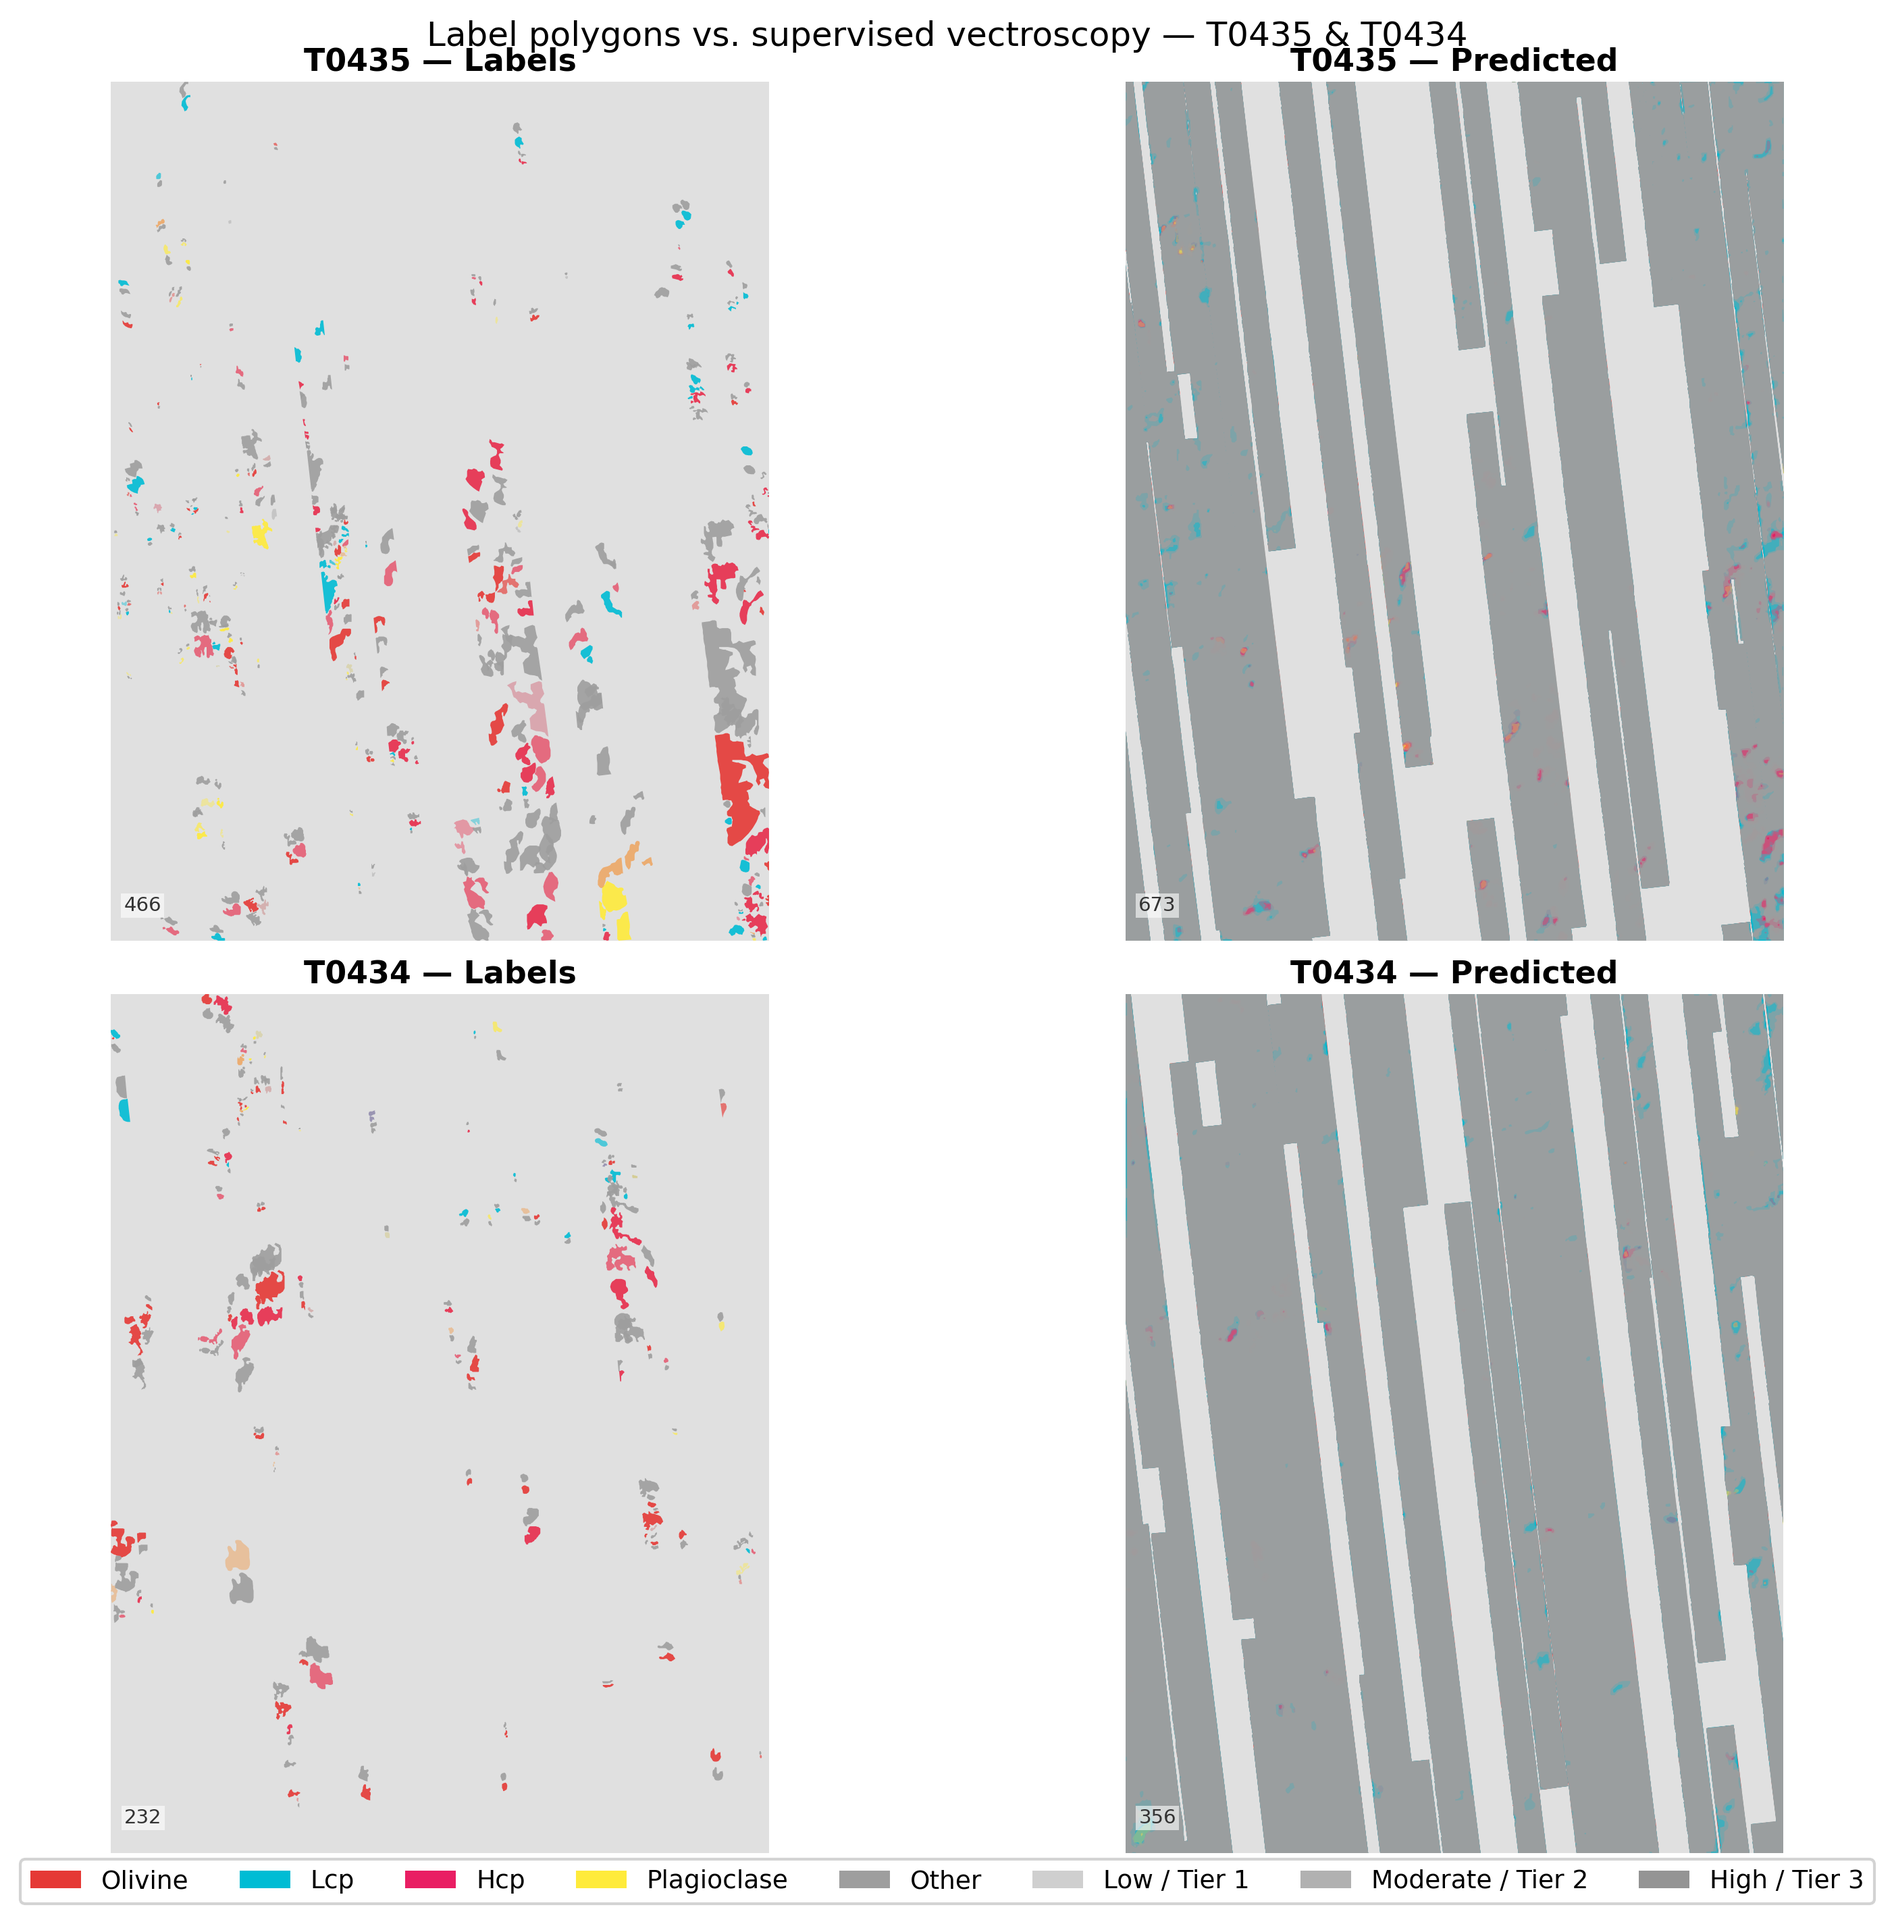
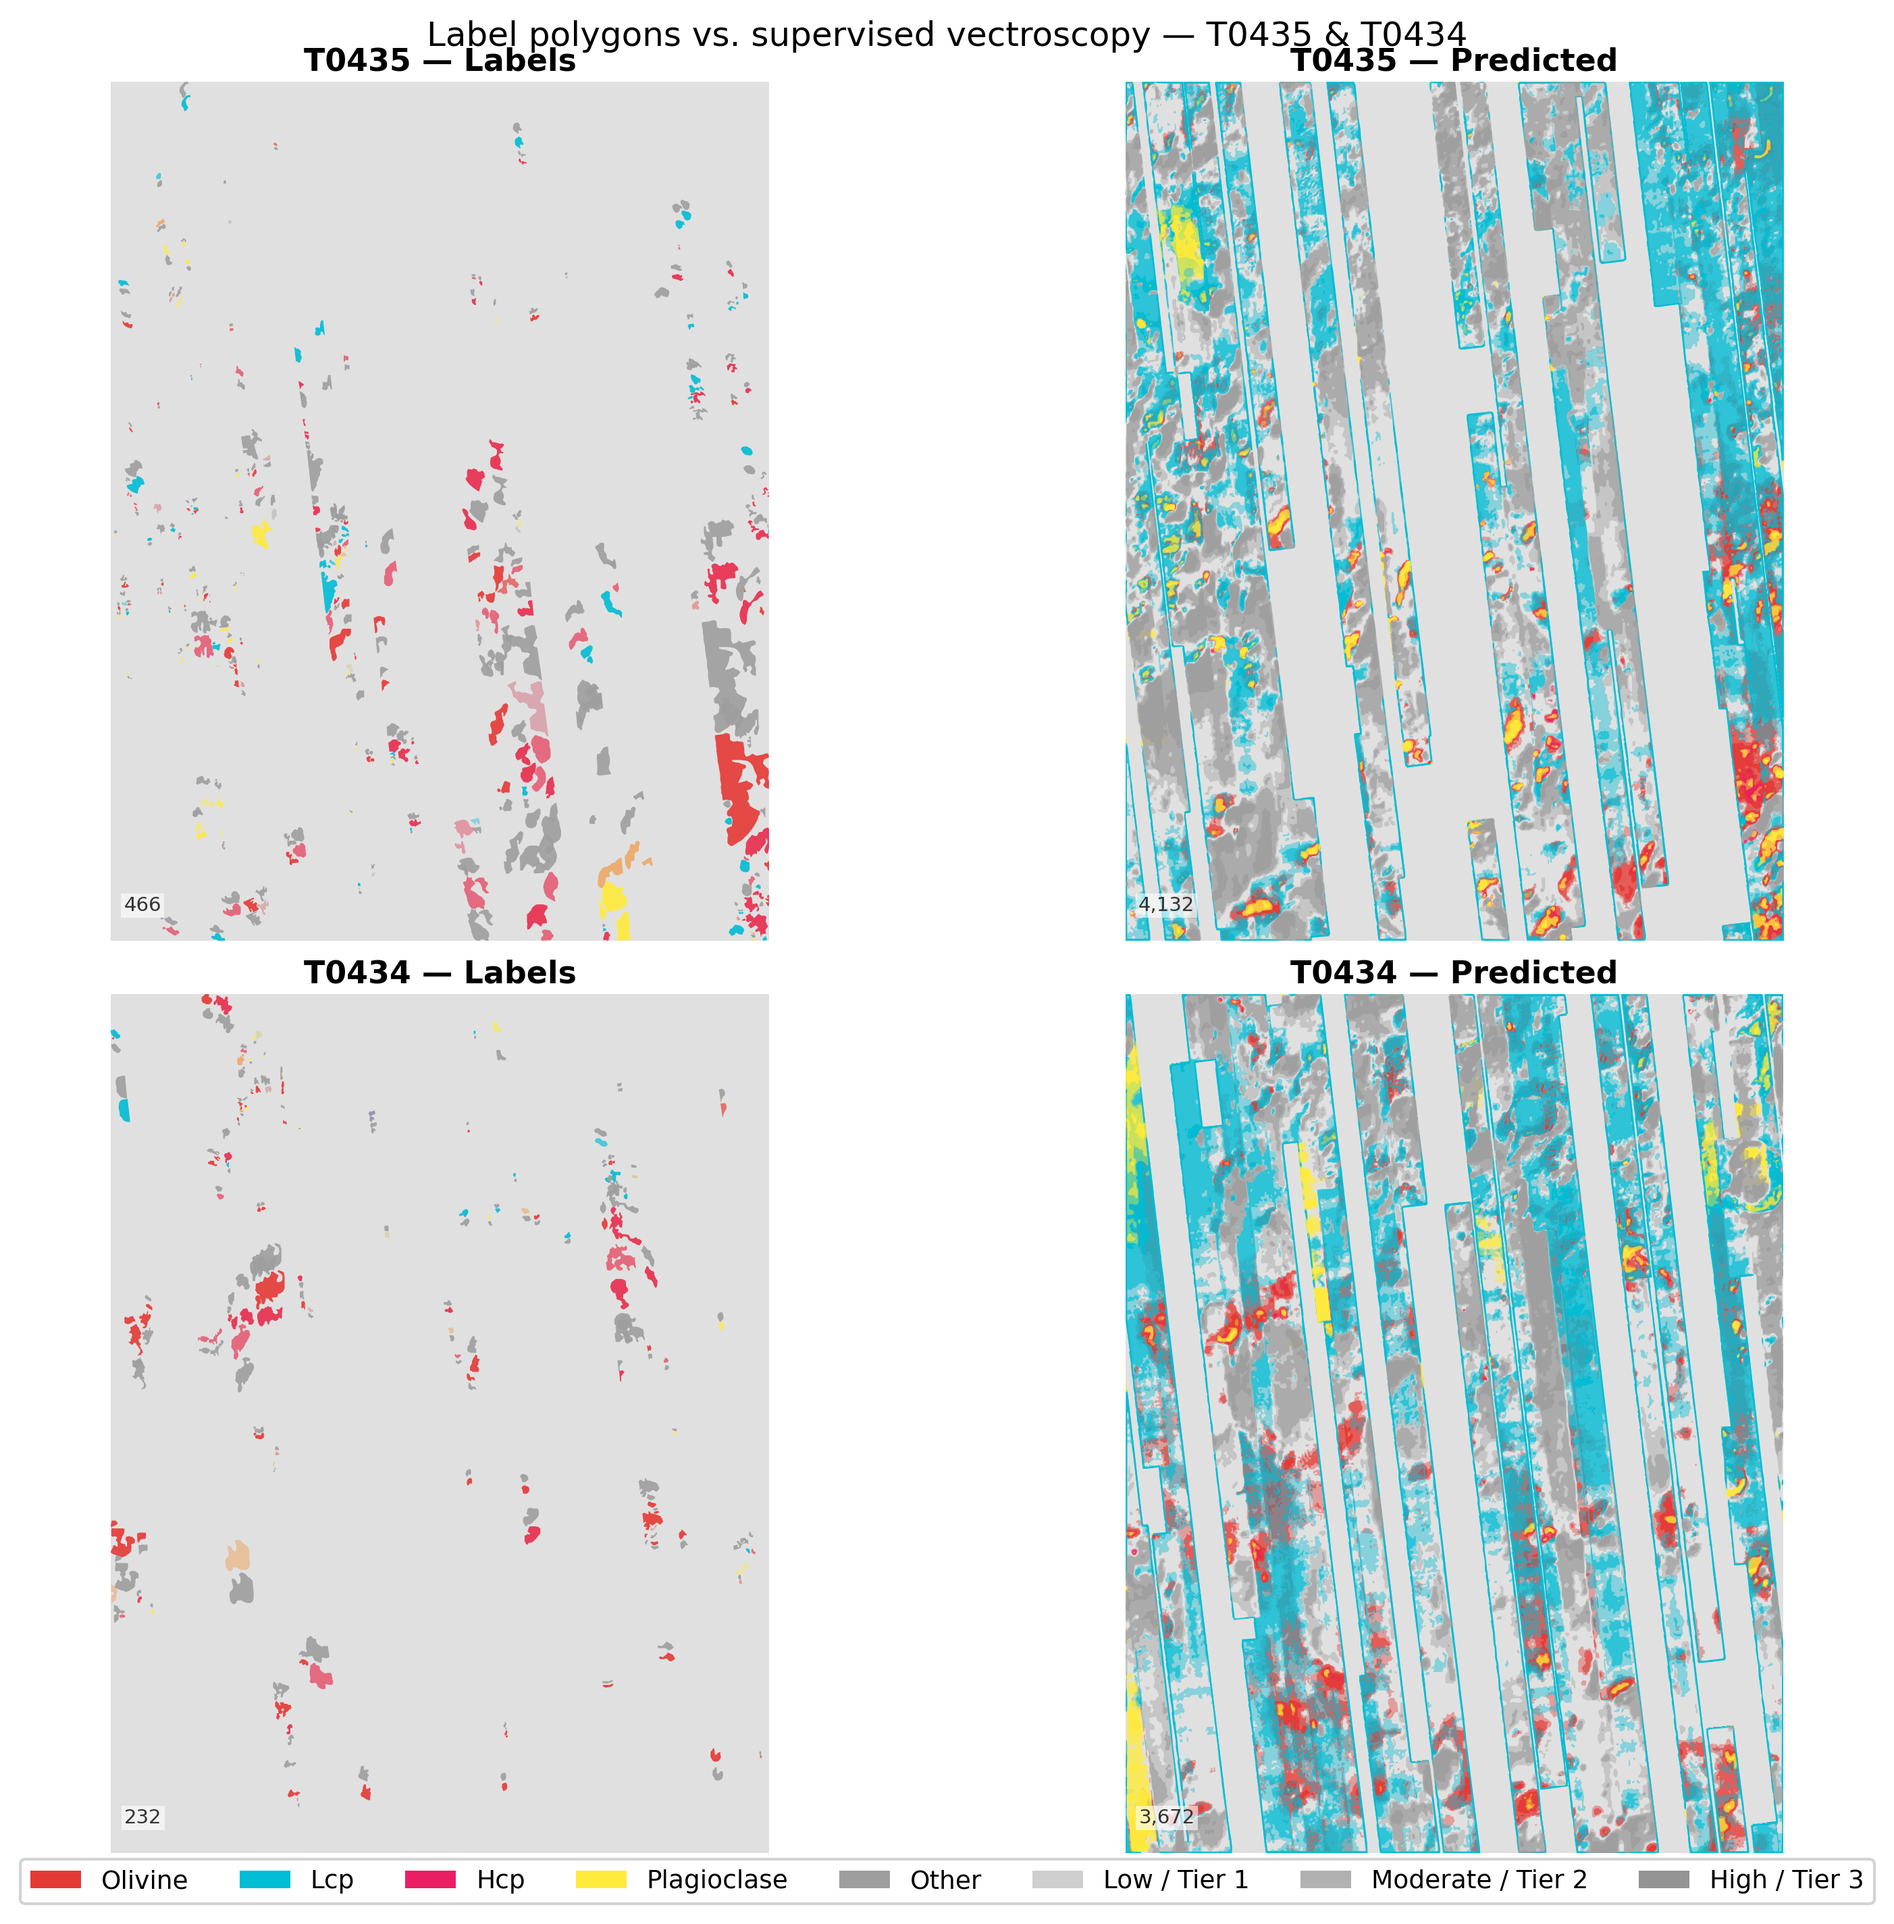
feat: Otsu + signal-percentile thresholds (--otsu flag) + distribution diagnostic figure

Changed region(s): [[0.5893, 0.0312, 0.9615, 0.9684]]

diff --git a/scripts/compute_global_thresholds.py b/scripts/compute_global_thresholds.py
@@ -18,6 +18,7 @@ from datetime import date
 from typing import Dict, List
 
 import numpy as np
+from skimage.filters import threshold_otsu
 
 CLASS_NAMES = ['olivine', 'lcp', 'hcp', 'plagioclase', 'other']
 DEFAULT_MORPHOLOGY = {
@@ -48,6 +49,40 @@ def pool_valid_probs(npz_paths: List[str]) -> Dict[int, np.ndarray]:
     return {ci: np.concatenate(pooled[ci]) for ci in range(5)}
 
 
+def compute_otsu_thresholds(pooled: Dict[int, np.ndarray],
+                            class_names: List[str],
+                            ) -> tuple:
+    """Compute per-class thresholds using Otsu's method + signal-distribution percentiles.
+
+    Steps:
+      1. Otsu's threshold splits noise vs. signal pixels.
+      2. p50 / p67 / p90 of above-Otsu pixels become tier 1 / 2 / 3 thresholds.
+
+    Args:
+        pooled: dict from pool_valid_probs()
+        class_names: list of class name strings in class-index order
+
+    Returns:
+        thresholds: dict name → [p50_signal, p67_signal, p90_signal]
+        otsu_values: dict name → float (Otsu split, stored for diagnostics)
+    """
+    thresholds = {}
+    otsu_values = {}
+    for ci, name in enumerate(class_names):
+        vals = pooled[ci]
+        otsu = float(threshold_otsu(vals))
+        signal = vals[vals > otsu]
+        if len(signal) == 0:
+            signal = vals          # degenerate fallback
+        t = [float(np.percentile(signal, p)) for p in [50, 67, 90]]
+        thresholds[name] = t
+        otsu_values[name] = otsu
+        n_sig = len(signal)
+        print(f'  {name:12s}: otsu={otsu:.4f}  signal={n_sig:,}/{len(vals):,} '
+              f'({100*n_sig/len(vals):.1f}%)  tiers={[f"{v:.4f}" for v in t]}')
+    return thresholds, otsu_values
+
+
 def compute_thresholds(pooled: Dict[int, np.ndarray],
                        class_names: List[str],
                        percentiles: List[int]) -> Dict[str, List[float]]:
@@ -73,7 +108,8 @@ def compute_thresholds(pooled: Dict[int, np.ndarray],
 
 def write_thresholds_json(out_path: str, thresholds: Dict[str, List[float]],
                           tiles_used: List[str], percentiles: List[int],
-                          morphology: dict) -> None:
+                          morphology: dict,
+                          otsu_thresholds: Dict[str, float] = None) -> None:
     """Write calibrated thresholds to JSON.
 
     Args:
@@ -90,6 +126,8 @@ def write_thresholds_json(out_path: str, thresholds: Dict[str, List[float]],
         'thresholds': thresholds,
         'morphology': morphology,
     }
+    if otsu_thresholds is not None:
+        payload['otsu_thresholds'] = otsu_thresholds
     os.makedirs(os.path.dirname(out_path) or '.', exist_ok=True)
     with open(out_path, 'w') as f:
         json.dump(payload, f, indent=2)
@@ -105,24 +143,31 @@ def main():
     parser.add_argument('--percentiles', type=int, nargs=3, default=[33, 67, 90],
                         metavar=('P1', 'P2', 'P3'),
                         help='Three percentile values for tiers 1/2/3 (default: 33 67 90)')
+    parser.add_argument('--otsu', action='store_true',
+                        help='Use Otsu noise/signal split + p50/p67/p90 of signal distribution '
+                             'instead of global percentiles. Ignores --percentiles.')
     args = parser.parse_args()
 
     print(f'Pooling probs from {len(args.probs)} tile(s)...')
     pooled = pool_valid_probs(args.probs)
 
-    print(f'Computing {args.percentiles} percentile thresholds per class:')
-    thresholds = compute_thresholds(pooled, CLASS_NAMES, args.percentiles)
-
-    # Derive tile ID from npz filename: strip _probs suffix if present
-    # e.g. /tmp/t0434_probs.npz → "t0434_probs" → "t0434"
-    #      /tmp/t0435_mrral_40s323_0327_4_probs.npz → full tile ID
     def _npz_to_tile_id(p):
         stem = os.path.splitext(os.path.basename(p))[0]
         return stem[:-6] if stem.endswith('_probs') else stem
 
     tiles_used = [_npz_to_tile_id(p) for p in args.probs]
-    write_thresholds_json(args.out, thresholds, tiles_used,
-                          args.percentiles, DEFAULT_MORPHOLOGY)
+
+    if args.otsu:
+        print('Computing Otsu + signal-distribution (p50/p67/p90) thresholds per class:')
+        thresholds, otsu_vals = compute_otsu_thresholds(pooled, CLASS_NAMES)
+        write_thresholds_json(args.out, thresholds, tiles_used,
+                              [50, 67, 90], DEFAULT_MORPHOLOGY,
+                              otsu_thresholds=otsu_vals)
+    else:
+        print(f'Computing {args.percentiles} percentile thresholds per class:')
+        thresholds = compute_thresholds(pooled, CLASS_NAMES, args.percentiles)
+        write_thresholds_json(args.out, thresholds, tiles_used,
+                              args.percentiles, DEFAULT_MORPHOLOGY)
     print(f'Saved → {args.out}')
 
 

diff --git a/scripts/plot_threshold_distributions.py b/scripts/plot_threshold_distributions.py
@@ -1,0 +1,85 @@
+"""
+Diagnostic figure: per-class similarity distributions with Otsu + tier thresholds.
+
+For each of the 5 mineral classes, plots a histogram of valid-pixel probabilities
+pooled from the calibration tiles, and overlays:
+  - Otsu threshold (noise/signal split)
+  - p50 / p67 / p90 of above-Otsu signal pixels (tier 1 / 2 / 3 boundaries)
+
+Helps sanity-check that distributions are bimodal and that Otsu is splitting them
+at the right point.
+
+Output: reports/fig_threshold_distributions.png
+
+Usage:
+    conda run -n crism python scripts/plot_threshold_distributions.py
+"""
+import os
+import sys
+
+import matplotlib
+matplotlib.use('Agg')
+import matplotlib.pyplot as plt
+import numpy as np
+from skimage.filters import threshold_otsu
+
+sys.path.insert(0, os.path.dirname(os.path.dirname(os.path.abspath(__file__))))
+from scripts.compute_global_thresholds import pool_valid_probs
+from scripts.fig_style import DPI
+
+PROJ = os.path.dirname(os.path.dirname(os.path.abspath(__file__)))
+PROBS = [
+    '/tmp/t0435_mrral_40s323_0327_4_probs.npz',
+    '/tmp/t0434_mrral_40s318_0327_4_probs.npz',
+]
+CLASS_NAMES = ['olivine', 'lcp', 'hcp', 'plagioclase', 'other']
+SIGNAL_PERCENTILES = [50, 67, 90]
+TIER_COLORS = ['#43a047', '#fb8c00', '#e53935']   # tier 1 / 2 / 3
+
+
+def main():
+    print('Pooling probs...')
+    pooled = pool_valid_probs(PROBS)
+
+    fig, axes = plt.subplots(1, 5, figsize=(18, 4), constrained_layout=True)
+    fig.suptitle('Similarity distributions — Otsu split + tier thresholds', fontsize=12)
+
+    for ci, name in enumerate(CLASS_NAMES):
+        ax = axes[ci]
+        vals = pooled[ci]
+
+        # Otsu threshold
+        otsu = float(threshold_otsu(vals))
+        signal = vals[vals > otsu]
+        n_sig = len(signal)
+        n_tot = len(vals)
+        tiers = [float(np.percentile(signal, p)) for p in SIGNAL_PERCENTILES]
+
+        # Histogram — separate bins for noise and signal to show both modes clearly
+        ax.hist(vals, bins=80, color='#90a4ae', alpha=0.7, density=True, label='all pixels')
+
+        # Otsu line
+        ax.axvline(otsu, color='#212121', lw=1.5, linestyle='--',
+                   label=f'Otsu {otsu:.3f}')
+
+        # Tier threshold lines
+        tier_labels = ['tier 1', 'tier 2', 'tier 3']
+        for t, color, lbl in zip(tiers, TIER_COLORS, tier_labels):
+            ax.axvline(t, color=color, lw=1.2, linestyle='-', label=f'{lbl} {t:.3f}')
+
+        ax.set_title(name, fontsize=10, fontweight='bold')
+        ax.set_xlabel('similarity', fontsize=8)
+        ax.tick_params(labelsize=7)
+        ax.legend(fontsize=6.5, loc='upper right')
+
+        # Annotate signal fraction
+        ax.text(0.03, 0.97, f'signal: {100*n_sig/n_tot:.1f}%',
+                transform=ax.transAxes, fontsize=7, va='top', color='#333')
+
+    out = os.path.join(PROJ, 'reports', 'fig_threshold_distributions.png')
+    plt.savefig(out, dpi=DPI, bbox_inches='tight')
+    print(f'Saved → {out}')
+
+
+if __name__ == '__main__':
+    main()

diff --git a/tests/test_compute_global_thresholds.py b/tests/test_compute_global_thresholds.py
@@ -104,3 +104,47 @@ def test_write_thresholds_json(tmp_path):
     assert list(data['thresholds'].keys()) == ['olivine', 'lcp', 'hcp', 'plagioclase', 'other']
     assert len(data['thresholds']['olivine']) == 3
     assert 'morphology' in data
+
+
+def test_compute_otsu_thresholds_bimodal():
+    """Otsu splits a bimodal distribution; tier thresholds come from the signal cluster."""
+    from scripts.compute_global_thresholds import compute_otsu_thresholds
+
+    rng = np.random.default_rng(42)
+    # Class 0: 1000 noise pixels near 0.05, 200 signal pixels near 0.70
+    noise = rng.normal(0.05, 0.01, 1000).astype(np.float32)
+    signal = rng.normal(0.70, 0.05, 200).astype(np.float32)
+    vals = np.concatenate([noise, signal])
+    pooled = {0: vals, 1: vals, 2: vals, 3: vals, 4: vals}
+    CLASS_NAMES = ['olivine', 'lcp', 'hcp', 'plagioclase', 'other']
+
+    thresholds, otsu_vals = compute_otsu_thresholds(pooled, CLASS_NAMES)
+
+    # Otsu should land somewhere between the two modes (noise ~0.05, signal ~0.70)
+    assert 0.06 < otsu_vals['olivine'] < 0.60
+    # All three tier thresholds must be above the Otsu split
+    for t in thresholds['olivine']:
+        assert t > otsu_vals['olivine']
+    # Tiers must be non-decreasing
+    t1, t2, t3 = thresholds['olivine']
+    assert t1 <= t2 <= t3
+
+
+def test_compute_otsu_thresholds_signal_percentiles():
+    """Tier thresholds are the 50th, 67th, 90th percentiles of above-Otsu pixels."""
+    from scripts.compute_global_thresholds import compute_otsu_thresholds
+    from skimage.filters import threshold_otsu
+
+    rng = np.random.default_rng(7)
+    noise = rng.normal(0.05, 0.01, 800).astype(np.float32)
+    signal = rng.normal(0.60, 0.08, 200).astype(np.float32)
+    vals = np.concatenate([noise, signal])
+    pooled = {0: vals, 1: vals, 2: vals, 3: vals, 4: vals}
+    CLASS_NAMES = ['olivine', 'lcp', 'hcp', 'plagioclase', 'other']
+
+    thresholds, otsu_vals = compute_otsu_thresholds(pooled, CLASS_NAMES)
+
+    otsu = otsu_vals['olivine']
+    signal_pixels = vals[vals > otsu]
+    expected = [float(np.percentile(signal_pixels, p)) for p in [50, 67, 90]]
+    np.testing.assert_allclose(thresholds['olivine'], expected, rtol=1e-5)
